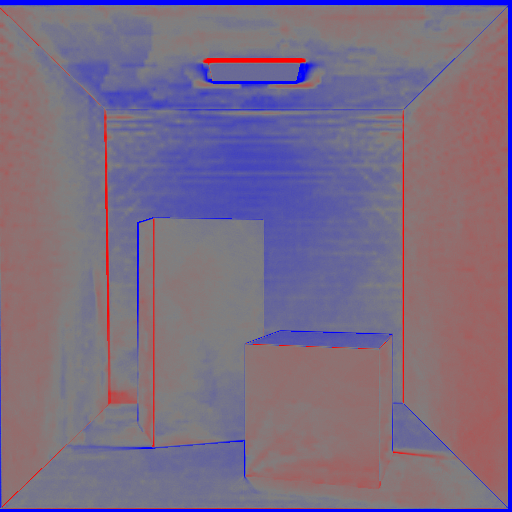
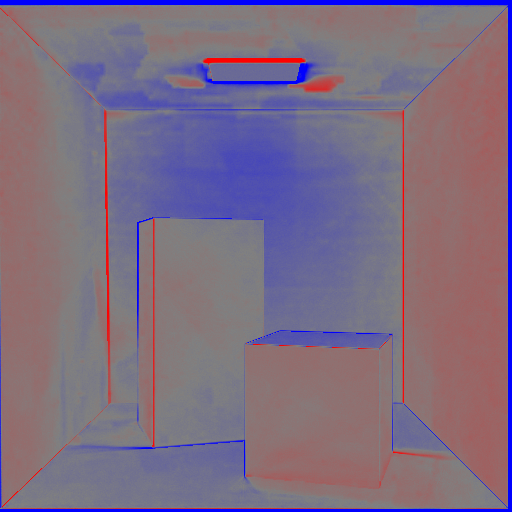
Example 41: 4096 directions for the near gather, and one visibility mechanism
The indirect term carried horizontal banding across the ceiling and the upper
walls. MBG_INDIRECT_ONLY, added last commit, is what made it visible; this is
what it turned out to be.

Two hypotheses were wrong and are recorded in finding 14 because both looked
right. The second bounce's shadowing WAS binary -- at an 8x8 target a level-2
camera puts half a texel on Cornell's panel, so its visible fraction was the
sub-texel yes/no -- and fixing that changed the banding not at all. Neither
did spawn tiles four times finer, at 100 s a sweep.

The cause is the quadrature. A 32x32 gather hands every receiver the same
1024 directions, so its error is correlated between neighbours rather than
independent: a scene feature crosses a texel boundary at the same place for a
whole row of receivers and the sums step together. That is why it reads as
banding rather than noise, and why the pattern follows the GI grid -- at
MBG_SCALE=2 it becomes a fine diagonal weave along the octahedral folds.

At 64x64 it is gone. Mean roughness of the full solve drops from 1.17x the
reference's own to 0.98x, RMSE 0.0532 -> 0.0526. So the default level-1
target is 64, with the tile at 16 to keep the child count where finding 4 put
it, and the shared buffer grows to 16 KB. Deeper levels stay at 8x8: raising
level 2 to 24 takes the ceiling from 1.30x to 1.12x for six times the sweep,
which is section 6.2's resolution falloff being right.
[…]

diff --git a/examples/41_multibounce/solver.hpp b/examples/41_multibounce/solver.hpp
@@ -48,9 +48,16 @@ struct SolveConfig {
     uint32_t scale   = 4;          // GI grid = framebuffer / scale
     uint32_t budget  = 4096;       // level-1 cameras per frame
 
-    // The resolution ladder of section 6.2 / 4.1. 32 near, then aggressive
-    // falloff: deep bounces carry little energy and are extremely low frequency.
-    std::array<uint32_t, kMaxLevels> res{{32, 8, 8, 8}};
+    // The resolution ladder of section 6.2 / 4.1: near cameras get the
+    // resolution, deep ones do not, because deep bounces carry little energy and
+    // are extremely low frequency.
+    //
+    // 64 at level 1 rather than the doc's 32, on measurement. The quadrature
+    // error of a 32x32 gather is correlated between neighbouring receivers -- the
+    // directions are the same for all of them -- so it does not read as noise,
+    // it reads as horizontal banding across the ceiling and the upper walls.
+    // 4096 directions removes it; see implementation.md, finding 14.
+    std::array<uint32_t, kMaxLevels> res{{64, 8, 8, 8}};
     // Tile edge for spawning the next level, in texels of THIS level's target.
     // 1 spawns per texel (the unabridged recursion); the terminal level ignores
     // it. res/block must be an integer, and configure() snaps it down until it
@@ -66,7 +73,10 @@ struct SolveConfig {
     // spawns a single child and the level below it stops being a gather at all,
     // and the extra children are cheap next to level 1's, which multiplies
     // everything under it.
-    std::array<uint32_t, kMaxLevels> block{{8, 4, 4, 4}};
+    // 16 at level 1 keeps the child count at 16 now that the target is 64 wide;
+    // the measurement behind the tile size is in finding 4 and is about how many
+    // children there are, not how many texels each covers.
+    std::array<uint32_t, kMaxLevels> block{{16, 4, 4, 4}};
 
     // The direct term. `nee` routes every emissive triangle through the analytic
     // estimator in raster.comp instead of letting the quadrature find it, which
@@ -84,6 +94,12 @@ struct SolveConfig {
     // emitter, against the 4-29 a 32x32 hemisphere manages -- see
     // common/lightview.glsl.
     uint32_t  direct_res = 16;
+    // Light-view edge for the SECONDARY CAMERAS' direct term. Smaller than the
+    // per-pixel pass's because it feeds bounce transport rather than the image,
+    // but it cannot be the hemisphere: at an 8x8 target a camera's hemisphere
+    // puts half a texel on Cornell's panel, and a yes/no answer there is the
+    // banding the indirect term used to show.
+    uint32_t  cam_lv_res = 8;
     // Composite nothing but the indirect residual: the solve runs exactly as it
     // does normally and the per-pixel direct pass is skipped, so the image is
     // the bounce term alone. A diagnostic, not a rendering mode -- the indirect

diff --git a/examples/41_multibounce/main.cpp b/examples/41_multibounce/main.cpp
@@ -50,7 +50,8 @@
 //   MBG_TENT=1              spread each texel's mass over the 4 nearest tiles
 //   MBG_DIRECT_PIXEL=1      rasterize a hemisphere per pixel for the image's
 //                           direct term, not one per GI-grid camera
-//   MBG_DIRECT_RES=16       edge of that pass's per-emitter light view
+//   MBG_DIRECT_RES=16       edge of the per-pixel pass's light view
+//   MBG_LV_RES=8            edge of the secondary cameras' light view
 //   MBG_INDIRECT_ONLY=1     composite the bounce term alone, for inspecting it
 //   MBG_SCALE=4             GI grid = framebuffer / scale; 1 == one camera/pixel
 //   MBG_BUDGET=4096         level-1 cameras per frame
@@ -158,6 +159,7 @@ EnvOpts read_env() {
     if (const char* v = getenv("MBG_TENT"))     o.cfg.tent = atoi(v) != 0;
     if (const char* v = getenv("MBG_DIRECT_PIXEL")) o.cfg.direct_pixel = atoi(v) != 0;
     if (const char* v = getenv("MBG_DIRECT_RES")) u32(v, o.cfg.direct_res);
+    if (const char* v = getenv("MBG_LV_RES"))    u32(v, o.cfg.cam_lv_res);
     if (const char* v = getenv("MBG_INDIRECT_ONLY")) o.cfg.indirect_only = atoi(v) != 0;
     if (const char* v = getenv("MBG_PLANE"))    o.cfg.plane_tol = float(atof(v));
     if (const char* v = getenv("MBG_GTCAM"))    o.gtcam = atoi(v);
@@ -608,9 +610,12 @@ int main() {
                 ImGui::Checkbox("Direct term per pixel", &cfg.direct_pixel);
                 if (cfg.direct_pixel) {
                     int dr = int(cfg.direct_res);
-                    if (ImGui::SliderInt("Direct target", &dr, 2, 32))
+                    if (ImGui::SliderInt("Light view / pixel", &dr, 2, 32))
                         cfg.direct_res = uint32_t(dr);
                 }
+                int cr = int(cfg.cam_lv_res);
+                if (ImGui::SliderInt("Light view / camera", &cr, 2, 32))
+                    cfg.cam_lv_res = uint32_t(cr);
             }
 
             if (ImGui::CollapsingHeader("View", ImGuiTreeNodeFlags_DefaultOpen)) {

diff --git a/examples/41_multibounce/solver.cpp b/examples/41_multibounce/solver.cpp
@@ -62,7 +62,7 @@ void Solver::configure(const SolveConfig& cfg_in, int fb_w, int fb_h) {
     cfg.bounces = std::clamp(cfg.bounces, 1u, kMaxLevels);
     cfg.scale   = std::clamp(cfg.scale, 1u, 64u);
     for (uint32_t l = 0; l < cfg.bounces; ++l) {
-        cfg.res[l]   = std::clamp(cfg.res[l], 2u, 32u);
+        cfg.res[l]   = std::clamp(cfg.res[l], 2u, 64u);
         cfg.block[l] = snap_block(cfg.res[l], cfg.block[l]);
     }
 
@@ -234,6 +234,7 @@ void Solver::raster_level(uint32_t l, uint32_t count, const Scene& scene,
     raster_.set("u_dump", dump ? dump_mode_ : 0u);
     raster_.set("u_emitters", cfg.nee ? scene.emitter_count() : 0u);
     raster_.set("u_tent", cfg.tent ? 1u : 0u);
+    raster_.set("u_lv_res", std::clamp(cfg.cam_lv_res, 2u, 32u));
     dispatch_groups(count);
     gl::memory_barrier(GL_SHADER_STORAGE_BARRIER_BIT);
 }

diff --git a/examples/41_multibounce/implementation.md b/examples/41_multibounce/implementation.md
@@ -38,7 +38,9 @@ reload sees it.
 | `MBG_BOUNCES=n` | camera levels, 1–4. 1 = direct only |
 | `MBG_SCALE=n` | GI grid = framebuffer / n. **1 = one camera per pixel**, the doc's correctness reference |
 | `MBG_BUDGET=n` | level-1 cameras per frame. The sweep is split into `ceil(pixels/budget)` chunks; the budget is clamped down if the camera tree would exceed 512 MB |
-| `MBG_RES=n` / `MBG_RES2/3/4=n` | hemi-octahedral target edge per level, 2–32 |
+| `MBG_RES=n` / `MBG_RES2/3/4=n` | hemi-octahedral target edge per level, 2–64 (defaults 64/8/8/8; see finding 14) |
+| `MBG_LV_RES=n` | edge of the secondary cameras' light view (default 8) |
+| `MBG_INDIRECT_ONLY=1` | composite the bounce term alone, for inspecting it |
 | `MBG_BLOCK=n` / `MBG_BLOCK2/3=n` | spawn tile edge in texels. **1 spawns a child per texel — the unabridged recursion** |
 | `MBG_NEE=0\|1` | evaluate the direct term analytically instead of taking it from the raster (default 1). **The single most important setting for image quality**; see finding 2 |
 | `MBG_TENT=0\|1` | spread each texel's mass over the four nearest spawn tiles (default 1) |
@@ -213,8 +215,8 @@ direct with 16 visibility samples, tent weights on.
 
 | | RMSE | roughness vs reference | cameras/sweep | sweep |
 |---|---|---|---|---|
-| 1 bounce vs the direct reference | **0.0431** | 0.91× | 1.6e4 + 262k direct | 0.40 s + 16 s direct |
-| 3 bounces vs the full-GI reference (sky 0.05) | **0.0532** | 1.17× | 1.3e6 + 262k direct | 17 s + 16 s direct |
+| 1 bounce vs the direct reference | **0.0431** | 0.91× | 1.6e4 + 262k direct | 0.4 s + 16 s direct |
+| 3 bounces vs the full-GI reference (sky 0.05) | **0.0526** | 0.98× | 1.3e6 + 262k direct | 45 s + 16 s direct |
 
 The direct pass is per frame rather than per sweep, and it is a hemisphere per
 pixel — 262k workgroups at 512×512, against the 16k the GI grid runs. That is the
@@ -677,6 +679,48 @@ from the receiver has no bounded one, and `lv_setup` gives up and calls the ligh
 unoccluded. That is right for a panel and wrong for a receiver sitting inside a
 glowing box — which is what the hemisphere path, still used by every secondary
 camera, is there for.
+
+### 14. 1024 directions is not enough, and the error is banding rather than noise
+
+With the direct term fixed, the indirect was still wrong in a way that only shows
+once it is looked at on its own — `MBG_INDIRECT_ONLY=1` at 4× exposure, which is
+what that switch exists for. The bounce term carried **horizontal banding** across
+the ceiling and the upper walls, and blotchy patches elsewhere.
+
+Three hypotheses, two of them wrong and both worth recording:
+
+- **The second bounce's shadowing is binary.** At an 8×8 target a level-2 camera
+  puts *half a texel* on Cornell's panel, so its visible fraction was the
+  sub-texel yes/no of finding 12, flipping as a tile's representative moved.
+  That is real, and fixing it (the secondary cameras now use a fitted light view
+  too, so there is one visibility mechanism everywhere) changed the banding **not
+  at all**.
+- **The spawn tiles are too coarse.** Tile 2 puts 256 children on every level-1
+  camera and costs 100 s a sweep. Also unchanged.
+- **The quadrature itself.** A 32×32 gather gives every receiver the same 1024
+  directions, so its error is *correlated between neighbours* rather than
+  independent: as a receiver moves, a scene feature crosses a texel boundary at
+  the same place for a whole row of receivers, and the sum steps together. That
+  is why it reads as banding and not as noise, and why the pattern's spacing
+  follows the GI grid — at `MBG_SCALE=2` the bands become a fine diagonal weave
+  in the octahedral map's own fold directions.
+
+At 64×64 — 4096 directions, 16 KB of shared memory — the banding is gone, and the
+mean roughness of the full solve goes from 1.17× the reference's to **0.98×**. So
+the default level-1 target is 64 rather than the doc's 32, with the tile at 16 to
+keep the child count where finding 4 put it.
+
+The deeper levels stay at 8×8. Their quadrature does contribute: raising level 2
+to 24×24 takes the ceiling — the surface lit entirely by bounce, and the worst
+patch in the image — from 1.30× to 1.12×, for **6× the sweep**. RMSE moves by
+0.0001. That is the resolution falloff of §6.2 being right: near cameras need the
+directions, deep ones do not.
+
+The cost of the shared buffer is worth stating plainly. It is sized once, at
+compile time, for the largest target any level uses, so a level-3 camera with an
+8×8 target still reserves 16 KB and spends occupancy it cannot use. A production
+version would compile a kernel variant per tier; this one keeps a single kernel
+and pays for it.
 
 ## What this does not answer
 
